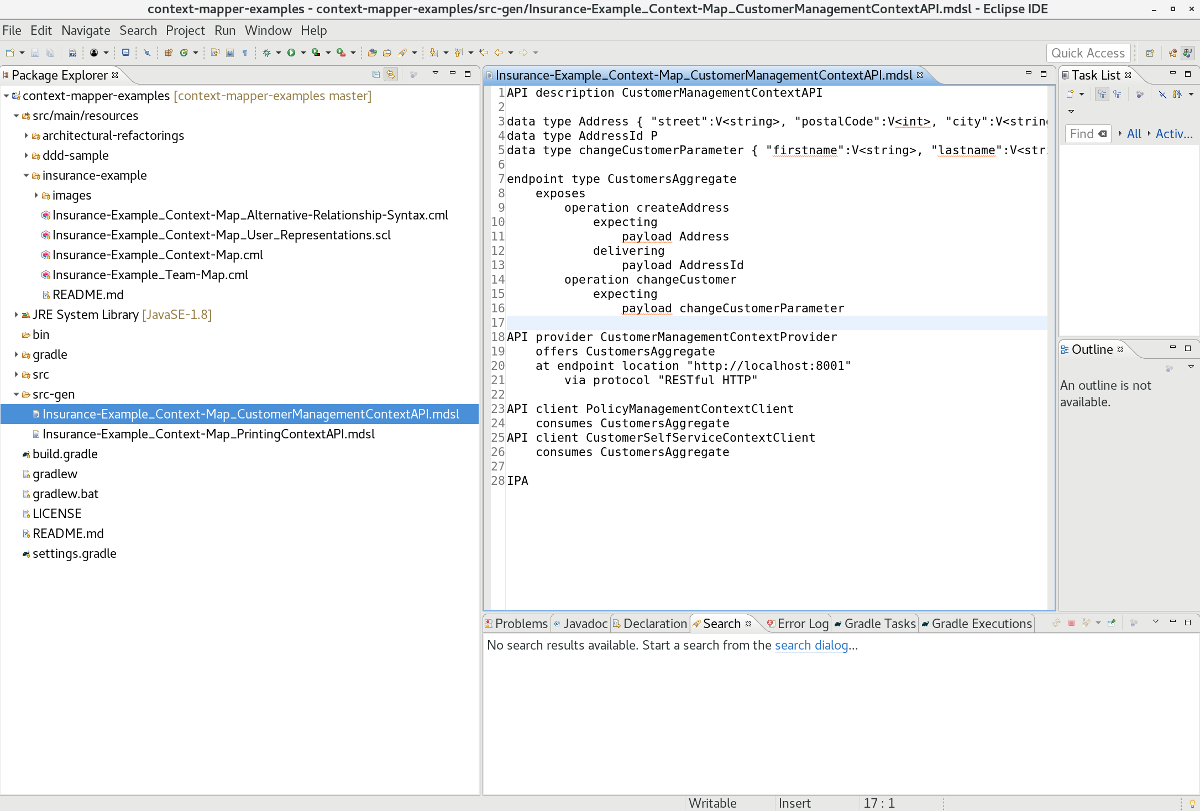
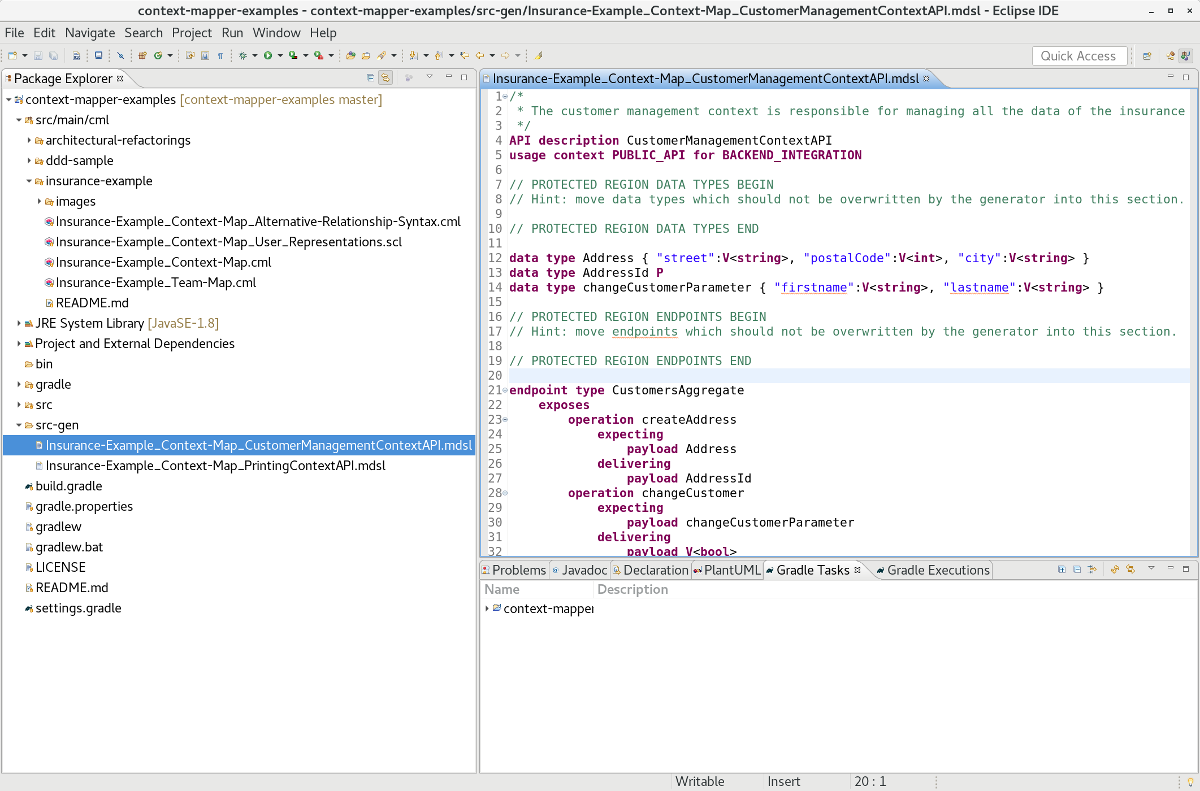
Update MDSL generator documentation for protected regions (#27)

diff --git a/_mdsls/insurance-example-full.html b/_mdsls/insurance-example-full.html
@@ -1,0 +1,61 @@
+<div class="highlight"><pre><span></span><span class="c">/*</span>
+<span class="c"> * The customer management context is responsible for managing all the data of the insurance companies customers.</span>
+<span class="c"> */</span>
+<span class="k">API description</span> CustomerManagementContextAPI
+<span class="k">usage context</span> <span class="k">PUBLIC_API</span> <span class="k">for</span> <span class="k">BACKEND_INTEGRATION</span>
+
+<span class="c">// PROTECTED REGION DATA TYPES BEGIN</span>
+<span class="c">// Hint: move data types which should not be overwritten by the generator into this section.</span>
+
+<span class="c">// PROTECTED REGION DATA TYPES END</span>
+
+<span class="k">data type</span> Address { <span class="s">&quot;street&quot;</span>:<span class="k">V</span>&lt;<span class="k">string</span>&gt;, <span class="s">&quot;postalCode&quot;</span>:<span class="k">V</span>&lt;<span class="k">int</span>&gt;, <span class="s">&quot;city&quot;</span>:<span class="k">V</span>&lt;<span class="k">string</span>&gt; }
+<span class="k">data type</span> AddressId <span class="k">P</span>
+<span class="k">data type</span> changeCustomerParameter { <span class="s">&quot;firstname&quot;</span>:<span class="k">V</span>&lt;<span class="k">string</span>&gt;, <span class="s">&quot;lastname&quot;</span>:<span class="k">V</span>&lt;<span class="k">string</span>&gt; }
+
+<span class="c">// PROTECTED REGION ENDPOINTS BEGIN</span>
+<span class="c">// Hint: move endpoints which should not be overwritten by the generator into this section.</span>
+
+<span class="c">// PROTECTED REGION ENDPOINTS END</span>
+
+<span class="k">endpoint type</span> CustomersAggregate
+	<span class="k">exposes</span>
+		<span class="k">operation</span> createAddress
+			<span class="k">expecting</span>
+				<span class="k">payload</span> Address
+			<span class="k">delivering</span>
+				<span class="k">payload</span> AddressId
+		<span class="k">operation</span> changeCustomer
+			<span class="k">expecting</span>
+				<span class="k">payload</span> changeCustomerParameter
+			<span class="k">delivering</span>
+				<span class="k">payload</span> V&lt;<span class="k">bool</span>&gt;
+
+<span class="c">// PROTECTED REGION PROVIDERS BEGIN</span>
+<span class="c">// Hint: move providers which should not be overwritten by the generator into this section.</span>
+
+<span class="c">// PROTECTED REGION PROVIDERS END</span>
+
+<span class="c">/* The upstream Bounded Context &#39;CustomerManagementContext&#39; implements OHS and PL. */</span>
+<span class="k">API provider</span> CustomerManagementContextProvider
+	<span class="k">offers</span> CustomersAggregate
+	<span class="k">at</span> <span class="k">endpoint</span> <span class="k">location</span> <span class="s">&quot;http://localhost:8001&quot;</span>
+		<span class="k">via</span> <span class="k">protocol</span> <span class="s">&quot;RESTfulHTTP&quot;</span>
+
+<span class="c">// PROTECTED REGION CLIENTS BEGIN</span>
+<span class="c">// Hint: move providers which should not be overwritten by the generator into this section.</span>
+
+<span class="c">// PROTECTED REGION CLIENTS END</span>
+
+<span class="c">/*</span>
+<span class="c"> * The downstream Bounded Context &#39;PolicyManagementContext&#39; implements CF.</span>
+<span class="c"> * This bounded context manages the contracts and policies of the customers.</span>
+<span class="c"> */</span>
+<span class="k">API client</span> PolicyManagementContextClient
+	<span class="k">consumes</span> CustomersAggregate
+<span class="c">/* This context represents a web application which allows the customer to login and change basic data records like the address. */</span>
+<span class="k">API client</span> CustomerSelfServiceContextClient
+	<span class="k">consumes</span> CustomersAggregate
+
+<span class="k">IPA</span>
+</pre></div>

diff --git a/_mdsls/insurance-example.html b/_mdsls/insurance-example.html
@@ -1,0 +1,29 @@
+<div class="highlight"><pre><span></span><span class="k">API description</span> CustomerManagementContextAPI
+
+<span class="k">data type</span> Address { <span class="s">&quot;street&quot;</span>:<span class="k">V</span>&lt;<span class="k">string</span>&gt;, <span class="s">&quot;postalCode&quot;</span>:<span class="k">V</span>&lt;<span class="k">int</span>&gt;, <span class="s">&quot;city&quot;</span>:<span class="k">V</span>&lt;<span class="k">string</span>&gt; }
+<span class="k">data type</span> AddressId <span class="k">P</span>
+<span class="k">data type</span> changeCustomerParameter { <span class="s">&quot;firstname&quot;</span>:<span class="k">V</span>&lt;<span class="k">string</span>&gt;, <span class="s">&quot;lastname&quot;</span>:<span class="k">V</span>&lt;<span class="k">string</span>&gt; }
+
+<span class="k">endpoint type</span> CustomersAggregate
+  <span class="k">exposes</span>
+    <span class="k">operation</span> createAddress
+      <span class="k">expecting</span>
+        <span class="k">payload</span> Address
+      <span class="k">delivering</span>
+        <span class="k">payload</span> AddressId
+    <span class="k">operation</span> changeCustomer
+      <span class="k">expecting</span>
+        <span class="k">payload</span> changeCustomerParameter
+
+<span class="k">API provider</span> CustomerManagementContextProvider
+  <span class="k">offers</span> CustomersAggregate
+  <span class="k">at</span> <span class="k">endpoint</span> <span class="k">location</span> <span class="s">&quot;http://localhost:8001&quot;</span>
+    <span class="k">via</span> <span class="k">protocol</span> <span class="s">&quot;RESTful HTTP&quot;</span>
+
+<span class="k">API client</span> PolicyManagementContextClient
+  <span class="k">consumes</span> CustomersAggregate
+<span class="k">API client</span> CustomerSelfServiceContextClient
+  <span class="k">consumes</span> CustomersAggregate
+
+<span class="k">IPA</span>
+</pre></div>

diff --git a/_mdsls/insurance-example-protected-types.html b/_mdsls/insurance-example-protected-types.html
@@ -1,0 +1,19 @@
+<div class="highlight"><pre><span></span><span class="c">/*</span>
+<span class="c"> * The customer management context is responsible for managing all the data of the insurance companies customers.</span>
+<span class="c"> */</span>
+<span class="k">API description</span> CustomerManagementContextAPI
+<span class="k">usage context</span> <span class="k">PUBLIC_API</span> <span class="k">for</span> <span class="k">BACKEND_INTEGRATION</span>
+
+<span class="c">// PROTECTED REGION DATA TYPES BEGIN</span>
+
+<span class="k">data type</span> Address { <span class="s">&quot;street&quot;</span>:<span class="k">V</span>&lt;<span class="k">string</span>&gt;, <span class="s">&quot;postalCode&quot;</span>:<span class="k">V</span>&lt;<span class="k">int</span>&gt;, <span class="s">&quot;city&quot;</span>:<span class="k">V</span>&lt;<span class="k">string</span>&gt;, <span class="s">&quot;manuallyChangedThisDataType&quot;</span>:<span class="k">V</span>&lt;<span class="k">string</span>&gt; }
+
+<span class="c">// PROTECTED REGION DATA TYPES END</span>
+
+<span class="k">data type</span> AddressId <span class="k">P</span>
+<span class="k">data type</span> changeCustomerParameter { <span class="s">&quot;firstname&quot;</span>:<span class="k">V</span>&lt;<span class="k">string</span>&gt;, <span class="s">&quot;lastname&quot;</span>:<span class="k">V</span>&lt;<span class="k">string</span>&gt; }
+
+<span class="c">// removed the rest here to save space ...</span>
+
+<span class="k">IPA</span>
+</pre></div>

diff --git a/_mdsls/data-type-1.html b/_mdsls/data-type-1.html
@@ -1,0 +1,2 @@
+<div class="highlight"><pre><span></span><span class="k">data type</span> Address { <span class="s">&quot;street&quot;</span>:<span class="k">V</span>&lt;<span class="k">string</span>&gt;, <span class="s">&quot;postalCode&quot;</span>:<span class="k">V</span>&lt;<span class="k">int</span>&gt;, <span class="s">&quot;city&quot;</span>:<span class="k">V</span>&lt;<span class="k">string</span>&gt; }
+</pre></div>

diff --git a/_mdsls/data-type-2.html b/_mdsls/data-type-2.html
@@ -1,0 +1,2 @@
+<div class="highlight"><pre><span></span><span class="k">data type</span> JustAnUnspecifiedParameterType <span class="k">P</span>
+</pre></div>

diff --git a/_docs/generators/mdsl.md b/_docs/generators/mdsl.md
@@ -53,48 +53,46 @@ Entity Address {
 }
 ```
 MDSL data type result:
-```
-data type Address { "street":V<string>, "postalCode":V<int>, "city":V<string> }
-```
+<div class="highlight"><pre><span></span><span class="k">data type</span> Address { <span class="s">&quot;street&quot;</span>:<span class="k">V</span>&lt;<span class="k">string</span>&gt;, <span class="s">&quot;postalCode&quot;</span>:<span class="k">V</span>&lt;<span class="k">int</span>&gt;, <span class="s">&quot;city&quot;</span>:<span class="k">V</span>&lt;<span class="k">string</span>&gt; }
+</pre></div>
 
 All abstract data types which are not base types and not specified in CML (no references to objects) will produce an abstract, 
 unspecified element in [MDSL](https://socadk.github.io/MDSL/), as the following example illustrates:
-```
-data type JustAnUnspecifiedParameterType P
-```
+<div class="highlight"><pre><span></span><span class="k">data type</span> JustAnUnspecifiedParameterType <span class="k">P</span>
+</pre></div>
 
 ### Example
 An example [MDSL](https://socadk.github.io/MDSL/) API description looks as follows: 
-```
-API description CustomerManagementContextAPI
+<div class="highlight"><pre><span></span><span class="k">API description</span> CustomerManagementContextAPI
 
-data type Address { "street":V<string>, "postalCode":V<int>, "city":V<string> }
-data type AddressId P
-data type changeCustomerParameter { "firstname":V<string>, "lastname":V<string> }
+<span class="k">data type</span> Address { <span class="s">&quot;street&quot;</span>:<span class="k">V</span>&lt;<span class="k">string</span>&gt;, <span class="s">&quot;postalCode&quot;</span>:<span class="k">V</span>&lt;<span class="k">int</span>&gt;, <span class="s">&quot;city&quot;</span>:<span class="k">V</span>&lt;<span class="k">string</span>&gt; }
+<span class="k">data type</span> AddressId <span class="k">P</span>
+<span class="k">data type</span> changeCustomerParameter { <span class="s">&quot;firstname&quot;</span>:<span class="k">V</span>&lt;<span class="k">string</span>&gt;, <span class="s">&quot;lastname&quot;</span>:<span class="k">V</span>&lt;<span class="k">string</span>&gt; }
 
-endpoint type CustomersAggregate
-  exposes
-    operation createAddress
-      expecting
-        payload Address
-      delivering
-        payload AddressId
-    operation changeCustomer
-      expecting
-        payload changeCustomerParameter
+<span class="k">endpoint type</span> CustomersAggregate
+  <span class="k">exposes</span>
+    <span class="k">operation</span> createAddress
+      <span class="k">expecting</span>
+        <span class="k">payload</span> Address
+      <span class="k">delivering</span>
+        <span class="k">payload</span> AddressId
+    <span class="k">operation</span> changeCustomer
+      <span class="k">expecting</span>
+        <span class="k">payload</span> changeCustomerParameter
 
-API provider CustomerManagementContextProvider
-  offers CustomersAggregate
-  at endpoint location "http://localhost:8001"
-    via protocol "RESTful HTTP"
+<span class="k">API provider</span> CustomerManagementContextProvider
+  <span class="k">offers</span> CustomersAggregate
+  <span class="k">at</span> <span class="k">endpoint</span> <span class="k">location</span> <span class="s">&quot;http://localhost:8001&quot;</span>
+    <span class="k">via</span> <span class="k">protocol</span> <span class="s">&quot;RESTful HTTP&quot;</span>
 
-API client PolicyManagementContextClient
-  consumes CustomersAggregate
-API client CustomerSelfServiceContextClient
-  consumes CustomersAggregate
+<span class="k">API client</span> PolicyManagementContextClient
+  <span class="k">consumes</span> CustomersAggregate
+<span class="k">API client</span> CustomerSelfServiceContextClient
+  <span class="k">consumes</span> CustomersAggregate
 
-IPA
-```
+<span class="k">IPA</span>
+</pre></div>
+
 **Note:** This example has been generated from our [insurance example](https://github.com/ContextMapper/context-mapper-examples/tree/master/src/main/cml/insurance-example) 
 which you can find in our [examples repository](https://github.com/ContextMapper/context-mapper-examples).
 
@@ -125,6 +123,102 @@ All [MDSL](https://socadk.github.io/MDSL/) files will be generated into the **sr
 <strong>Note:</strong> The MDSL Eclipse plugin is not yet available for download (update site). At the moment you can open the *.mdsl 
 files with a text editor only (no syntax highlighting and editor support available yet).
 </div>
+
+### Protected Regions
+The generator initially creates protected regions for the MDSL root elements **data type**, **endpoint type**, **API provider**, and 
+**API client**. The MDSL contract for the insurance example (customer management) initially looks like this:
+<div class="highlight"><pre><span></span><span class="c">/*</span>
+<span class="c"> * The customer management context is responsible for managing all the data of the insurance companies customers.</span>
+<span class="c"> */</span>
+<span class="k">API description</span> CustomerManagementContextAPI
+<span class="k">usage context</span> <span class="k">PUBLIC_API</span> <span class="k">for</span> <span class="k">BACKEND_INTEGRATION</span>
+
+<span class="c">// PROTECTED REGION DATA TYPES BEGIN</span>
+<span class="c">// Hint: move data types which should not be overwritten by the generator into this section.</span>
+
+<span class="c">// PROTECTED REGION DATA TYPES END</span>
+
+<span class="k">data type</span> Address { <span class="s">&quot;street&quot;</span>:<span class="k">V</span>&lt;<span class="k">string</span>&gt;, <span class="s">&quot;postalCode&quot;</span>:<span class="k">V</span>&lt;<span class="k">int</span>&gt;, <span class="s">&quot;city&quot;</span>:<span class="k">V</span>&lt;<span class="k">string</span>&gt; }
+<span class="k">data type</span> AddressId <span class="k">P</span>
+<span class="k">data type</span> changeCustomerParameter { <span class="s">&quot;firstname&quot;</span>:<span class="k">V</span>&lt;<span class="k">string</span>&gt;, <span class="s">&quot;lastname&quot;</span>:<span class="k">V</span>&lt;<span class="k">string</span>&gt; }
+
+<span class="c">// PROTECTED REGION ENDPOINTS BEGIN</span>
+<span class="c">// Hint: move endpoints which should not be overwritten by the generator into this section.</span>
+
+<span class="c">// PROTECTED REGION ENDPOINTS END</span>
+
+<span class="k">endpoint type</span> CustomersAggregate
+	<span class="k">exposes</span>
+		<span class="k">operation</span> createAddress
+			<span class="k">expecting</span>
+				<span class="k">payload</span> Address
+			<span class="k">delivering</span>
+				<span class="k">payload</span> AddressId
+		<span class="k">operation</span> changeCustomer
+			<span class="k">expecting</span>
+				<span class="k">payload</span> changeCustomerParameter
+			<span class="k">delivering</span>
+				<span class="k">payload</span> V&lt;<span class="k">bool</span>&gt;
+
+<span class="c">// PROTECTED REGION PROVIDERS BEGIN</span>
+<span class="c">// Hint: move providers which should not be overwritten by the generator into this section.</span>
+
+<span class="c">// PROTECTED REGION PROVIDERS END</span>
+
+<span class="c">/* The upstream Bounded Context &#39;CustomerManagementContext&#39; implements OHS and PL. */</span>
+<span class="k">API provider</span> CustomerManagementContextProvider
+	<span class="k">offers</span> CustomersAggregate
+	<span class="k">at</span> <span class="k">endpoint</span> <span class="k">location</span> <span class="s">&quot;http://localhost:8001&quot;</span>
+		<span class="k">via</span> <span class="k">protocol</span> <span class="s">&quot;RESTfulHTTP&quot;</span>
+
+<span class="c">// PROTECTED REGION CLIENTS BEGIN</span>
+<span class="c">// Hint: move providers which should not be overwritten by the generator into this section.</span>
+
+<span class="c">// PROTECTED REGION CLIENTS END</span>
+
+<span class="c">/*</span>
+<span class="c"> * The downstream Bounded Context &#39;PolicyManagementContext&#39; implements CF.</span>
+<span class="c"> * This bounded context manages the contracts and policies of the customers.</span>
+<span class="c"> */</span>
+<span class="k">API client</span> PolicyManagementContextClient
+	<span class="k">consumes</span> CustomersAggregate
+<span class="c">/* This context represents a web application which allows the customer to login and change basic data records like the address. */</span>
+<span class="k">API client</span> CustomerSelfServiceContextClient
+	<span class="k">consumes</span> CustomersAggregate
+
+<span class="k">IPA</span>
+</pre></div>
+
+The protected regions allow you to move _data types_, _endpoints_, _API providers_, and _API clients_ into its corresponding protected
+region so that they are not overwritten at re-generation. Thus, you can call the MDSL generator on the same file again and all objects
+within a protected region will not be changed. 
+
+For example, you can move a set of _data types_ into the corresponding protected region 
+if you changed the data types manually after generation and want to protect them:
+
+<div class="highlight"><pre><span></span><span class="c">/*</span>
+<span class="c"> * The customer management context is responsible for managing all the data of the insurance companies customers.</span>
+<span class="c"> */</span>
+<span class="k">API description</span> CustomerManagementContextAPI
+<span class="k">usage context</span> <span class="k">PUBLIC_API</span> <span class="k">for</span> <span class="k">BACKEND_INTEGRATION</span>
+
+<span class="c">// PROTECTED REGION DATA TYPES BEGIN</span>
+
+<span class="k">data type</span> Address { <span class="s">&quot;street&quot;</span>:<span class="k">V</span>&lt;<span class="k">string</span>&gt;, <span class="s">&quot;postalCode&quot;</span>:<span class="k">V</span>&lt;<span class="k">int</span>&gt;, <span class="s">&quot;city&quot;</span>:<span class="k">V</span>&lt;<span class="k">string</span>&gt;, <span class="s">&quot;manuallyChangedThisDataType&quot;</span>:<span class="k">V</span>&lt;<span class="k">string</span>&gt; }
+
+<span class="c">// PROTECTED REGION DATA TYPES END</span>
+
+<span class="k">data type</span> AddressId <span class="k">P</span>
+<span class="k">data type</span> changeCustomerParameter { <span class="s">&quot;firstname&quot;</span>:<span class="k">V</span>&lt;<span class="k">string</span>&gt;, <span class="s">&quot;lastname&quot;</span>:<span class="k">V</span>&lt;<span class="k">string</span>&gt; }
+
+<span class="c">// removed the rest here to save space ...</span>
+
+<span class="k">IPA</span>
+</pre></div>
+
+**Note**: If you do not want to work with protected regions you can simply remove them after the first generation. If you re-generate 
+the MDSL contracts on the same file it will not create the protected regions again. If you want to add protected regions to an existing
+MDSL file you have to do it manually (copy them from the example above). 
 
 ## MDSL Support
 The current version of our MDSL generator is compatible with the MDSL version _v1.0_. For further questions regarding [MDSL](https://socadk.github.io/MDSL/) please visit the website [https://socadk.github.io/MDSL](https://socadk.github.io/MDSL)
